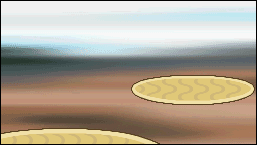
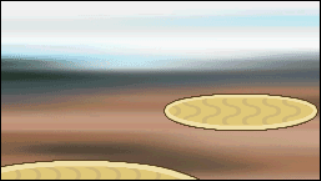
Fix battle window

diff --git a/src/libraries/BattleManager/regularbattlescene.cpp b/src/libraries/BattleManager/regularbattlescene.cpp
@@ -507,16 +507,17 @@ void GraphicsZone::updatePos(int spot)
 
     if (player == myself()) {
         if (!info()->multiples()) {
-            items[spot]->setPos(50 - width/2, 146 - height);
+            items[spot]->setPos(75 - width/2, 182 - height);
         } else {
-            items[spot]->setPos(info()->slotNum(spot)*60, 146-height);
+            items[spot]->setPos(info()->slotNum(spot)*75, 182-height);
         }
     } else {
         if (!info()->multiples()) {
-            items[spot]->setPos(184 - width/2, 96 - height);
+            items[spot]->setPos(235 - width/2, 115 - height);
         } else {
-            int base = 257-80-(info()->numberOfSlots()/2 - 1)*60;
-            items[spot]->setPos(base + info()->slotNum(spot)*60, 96-height);
+            //Triples has really erratic placing at some points still in 6G.
+            int base = 321-90-(info()->numberOfSlots()/2 - 1)*60;
+            items[spot]->setPos(base + info()->slotNum(spot)*60, 120-height);
         }
     }
 }
